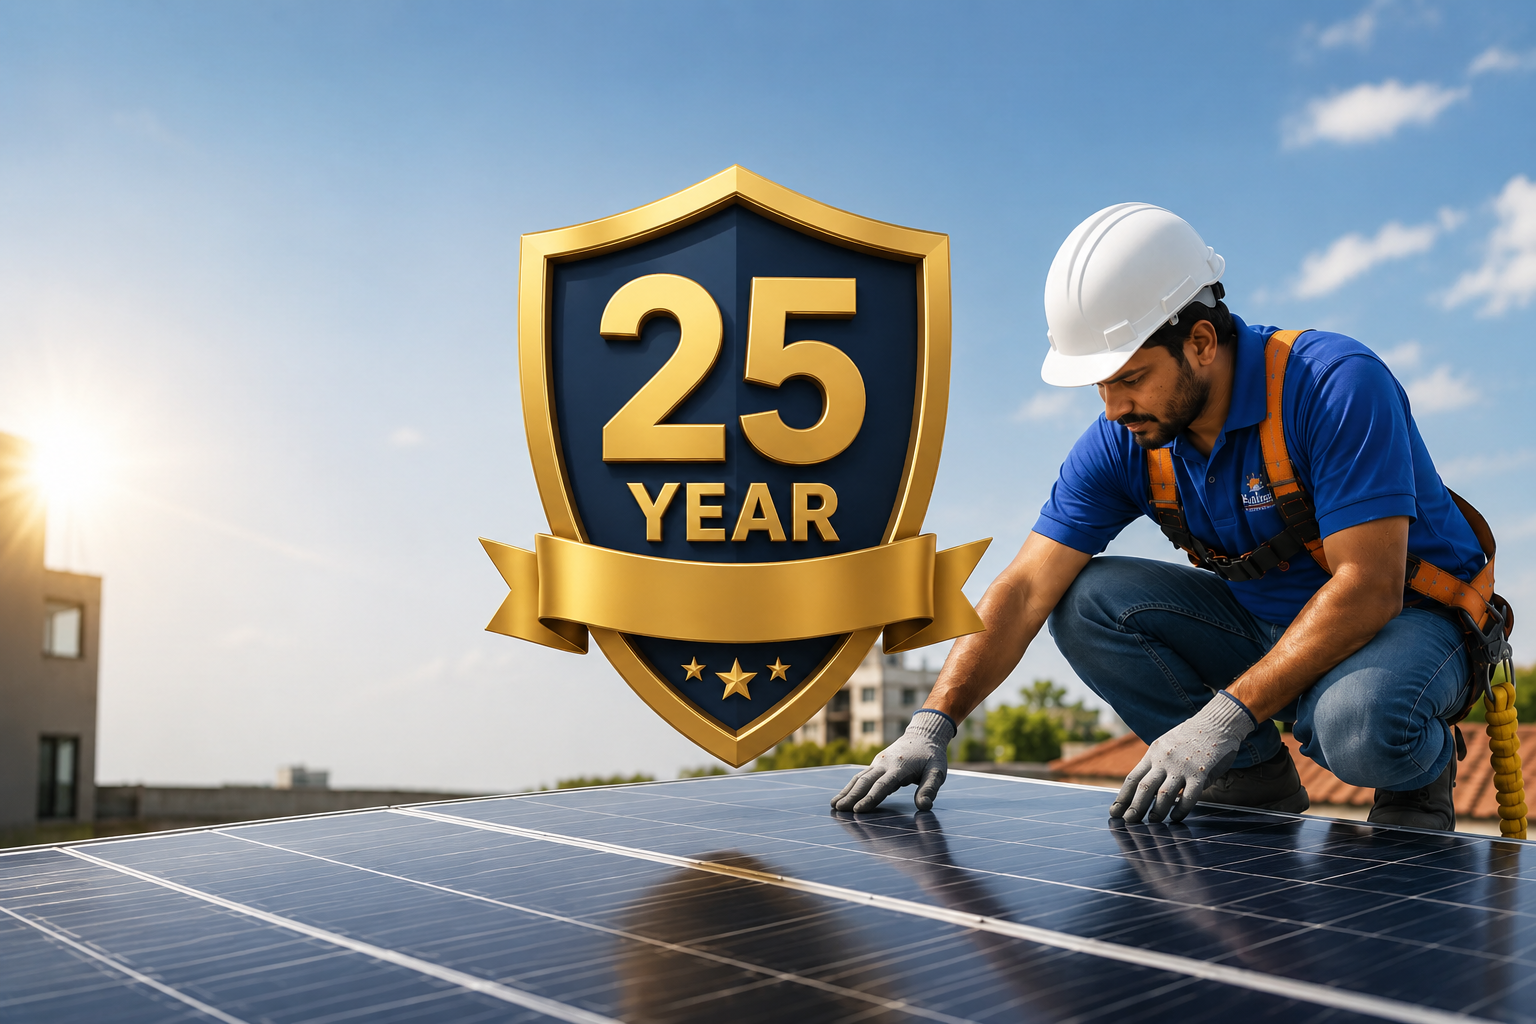
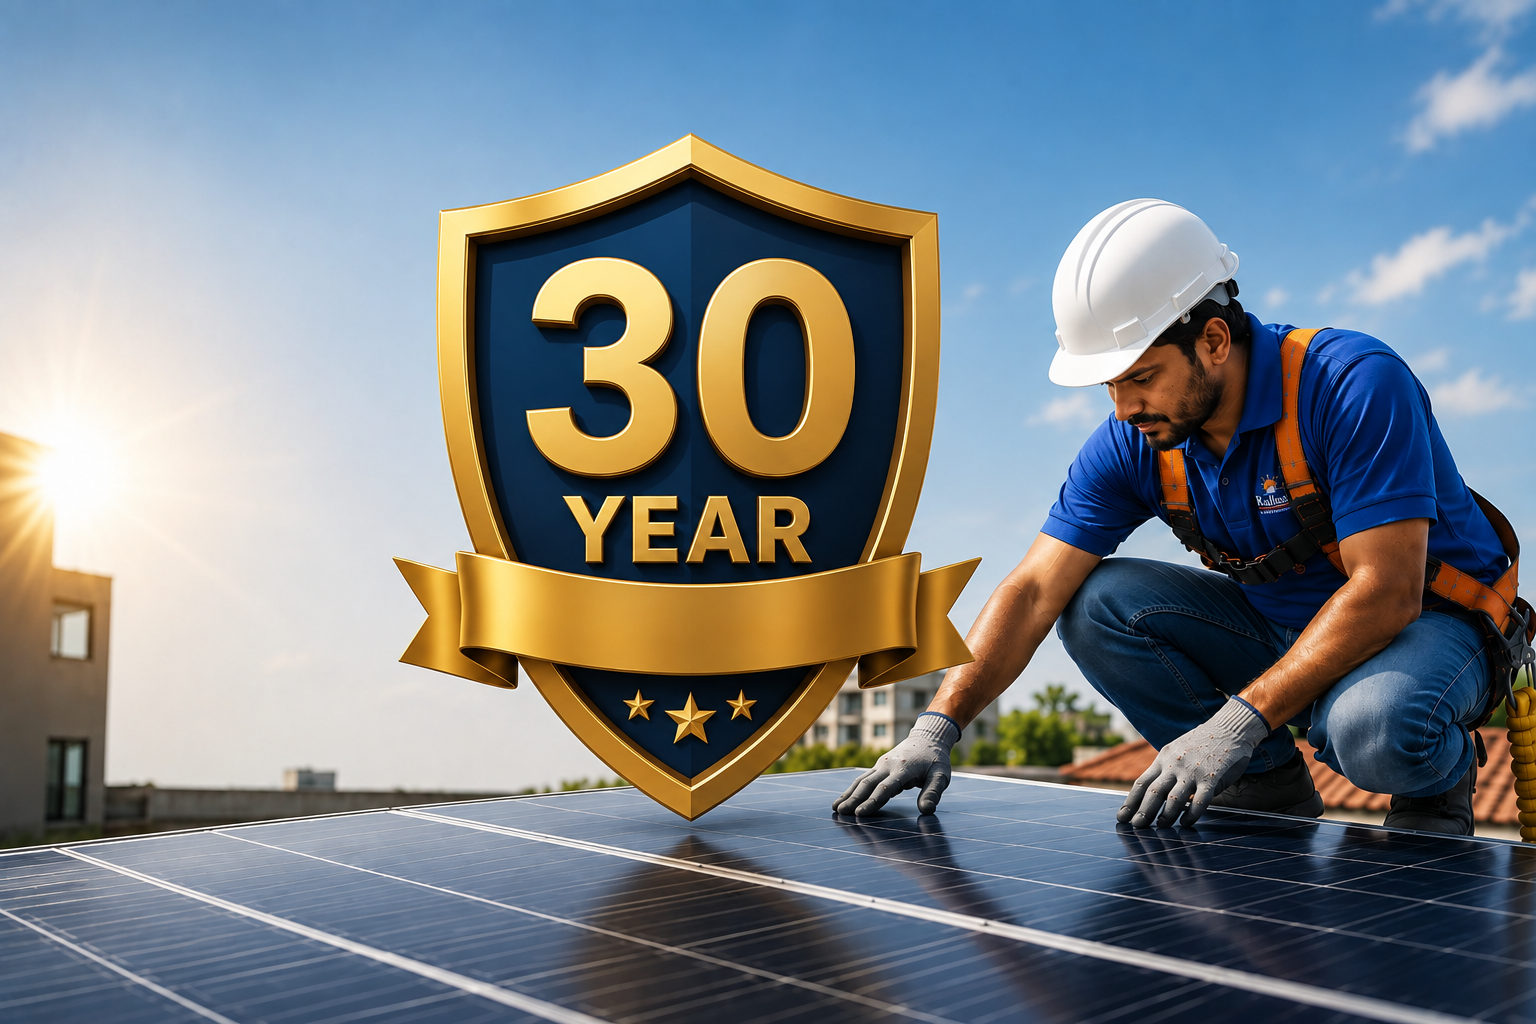
Update warranty to 30 years

diff --git a/src/app/solar-company-meerut/page.tsx b/src/app/solar-company-meerut/page.tsx
@@ -227,7 +227,7 @@ export default function SolarCompanyMeerut() {
               { title: "Subsidy Assistance", desc: "We handle the entire PM Surya Ghar Yojana subsidy paperwork for you from start to finish.", img: "/subsidy.png" },
               { title: "Tier-1 Solar Panels", desc: "We only use premium Tier-1 modules (Adani, Waaree) built for maximum efficiency.", img: "/solarpanel.png" },
               { title: "Expert Engineers", desc: "Our in-house professional engineers guarantee safe, structurally sound, and aesthetic rooftop installations.", img: "/expert.png" },
-              { title: "25-Year Warranty", desc: "Enjoy complete peace of mind with a 25-year performance warranty on your solar panels.", img: "/warranty.png" },
+              { title: "30-Year Warranty", desc: "Enjoy complete peace of mind with a 30-year performance warranty on your solar panels.", img: "/warranty.png" },
               { title: "Quick Installation", desc: "From site survey to commissioning, we complete residential projects in record time.", img: "/installation.png" },
             ].map((feature, i) => (
               <div key={i} className="flex flex-col items-center text-center group">
@@ -476,7 +476,7 @@ export default function SolarCompanyMeerut() {
               },
               {
                 q: "What warranty do you provide?",
-                a: "We offer a 25-year performance warranty on solar panels and standard manufacturer warranties on inverters (typically 5-10 years), ensuring your investment is completely secure."
+                a: "We offer a 30-year performance warranty on solar panels and standard manufacturer warranties on inverters (typically 5-10 years), ensuring your investment is completely secure."
               },
               {
                 q: "Do I need to clean the solar panels?",

diff --git a/src/views/BlogSolarPanelPriceMeerut.tsx b/src/views/BlogSolarPanelPriceMeerut.tsx
@@ -49,7 +49,7 @@ const faqs = [
   },
   {
     q: 'How long do solar panels last?',
-    a: 'Top-tier solar panels come with a 25-year performance warranty. However, because they have no moving parts, a well-maintained system can continue generating electricity for 25 to 30 years or more.',
+    a: 'Top-tier solar panels come with a 30-year performance warranty. However, because they have no moving parts, a well-maintained system can continue generating electricity for 30 years or more.',
   },
   {
     q: 'What is the payback period for rooftop solar?',

diff --git a/src/app/blog/solar-panel-price-meerut/page.tsx b/src/app/blog/solar-panel-price-meerut/page.tsx
@@ -97,7 +97,7 @@ const faqSchema = {
       "name": "How long do solar panels last?",
       "acceptedAnswer": {
         "@type": "Answer",
-        "text": "High-quality Tier-1 solar panels (like Waaree or Adani) come with a 25-year performance warranty and easily last 25 to 30 years with minimal maintenance."
+        "text": "High-quality Tier-1 solar panels (like Waaree or Adani) come with a 30-year performance warranty and easily last 30 years with minimal maintenance."
       }
     }
   ]
